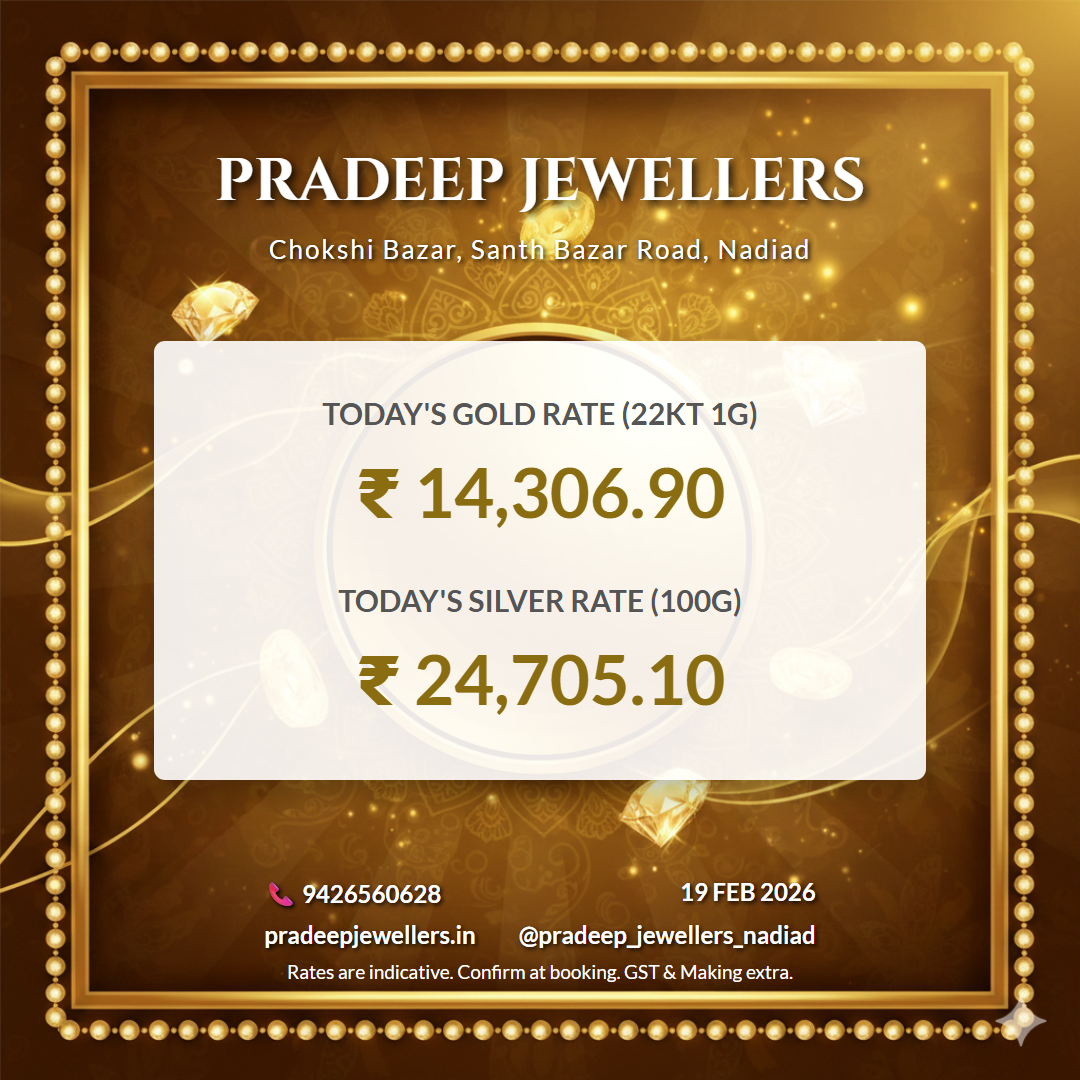
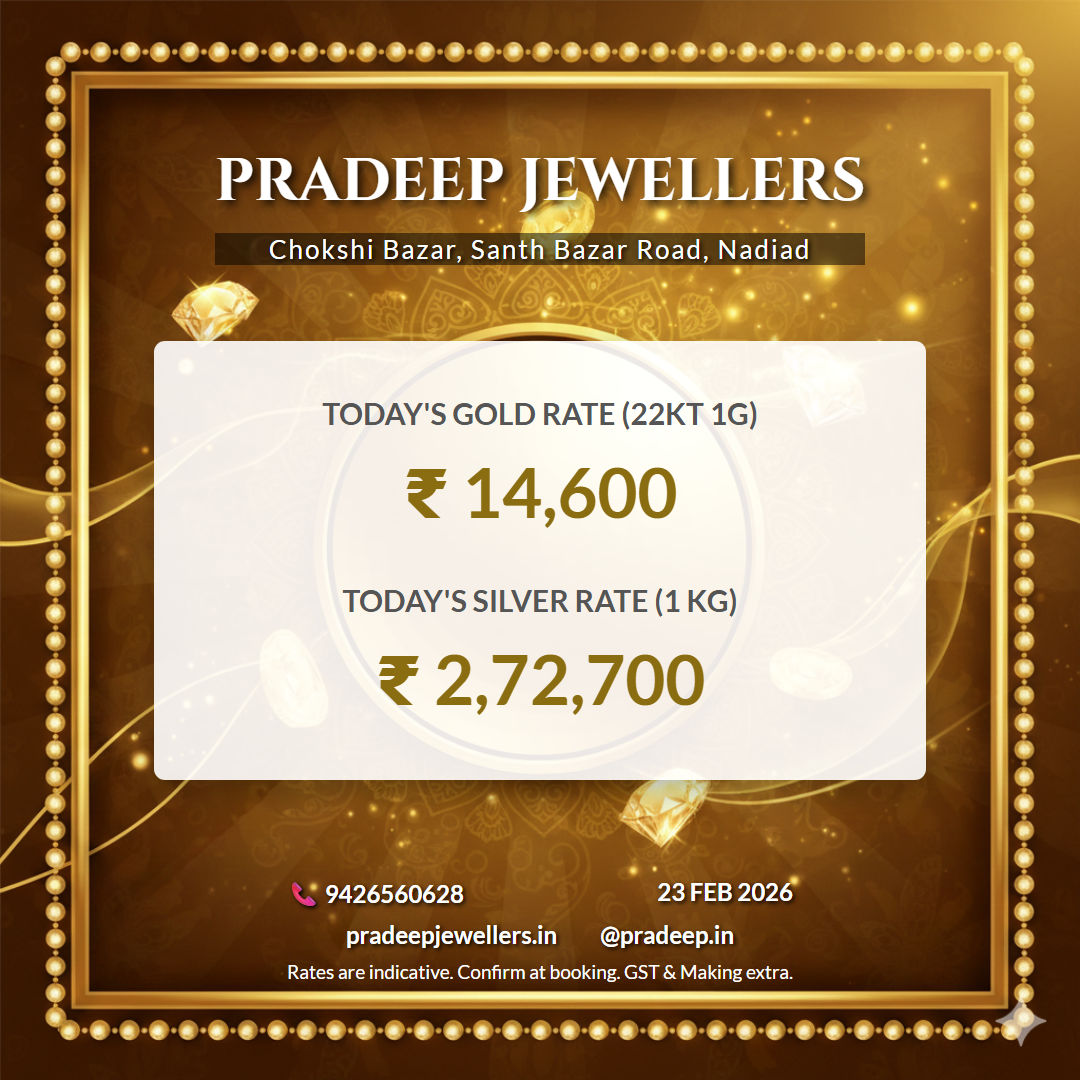
image generated succesfully

diff --git a/gold_rate_card.html b/gold_rate_card.html
@@ -117,22 +117,22 @@
     <div class="overlay-box">
         <div class="price-row">
             <div class="label">Today's Gold Rate (22KT 1g)</div>
-            <div class="price">₹ 14,306.90</div>
+            <div class="price">₹ 14,600</div>
         </div>
         <div class="price-row">
-            <div class="label">Today's Silver Rate (100g)</div>
-            <div class="price">₹ 24,705.10</div>
+            <div class="label">Today's Silver Rate (1 Kg)</div>
+            <div class="price">₹ 2,72,700</div>
         </div>
     </div>
 
     <div class="bottom-container">
         <div class="footer">
             <span>📞 9426560628</span>
-            <span>19 FEB 2026</span>
+            <span>23 FEB 2026</span>
         </div>
         <div class="footer" style="margin-top:11px; justify-content: center; gap: 43px;">
             <span>pradeepjewellers.in</span>
-            <span>@pradeep_jewellers_nadiad</span>
+            <span>@pradeepjewellers.in</span>
         </div>
         <div class="disclaimer">
             Rates are indicative. Confirm at booking. GST & Making extra.

diff --git a/pradeep_jewellers_rates.py b/pradeep_jewellers_rates.py
@@ -49,22 +49,53 @@ def scrape_rates():
     return gold_22k_10g, silver_retail_999_1kg
 
 
-def update_rate_card(gold_1g: float, silver_100g: float, script_dir: Path) -> None:
+def format_indian_number(n: float, decimals: int = 0) -> str:
+    """Format in Indian style: 143506 -> 1,43,506; 14350.60 -> 14,350.60"""
+    num = round(n, decimals)
+    if decimals > 0:
+        int_part = int(num)
+        dec_val = round(num - int_part, decimals)
+        s = str(int_part)
+        dec_str = f".{int(dec_val * 10**decimals):0{decimals}d}"
+    else:
+        s = str(int(num))
+        dec_str = ""
+    if len(s) <= 3:
+        return s + dec_str
+    last3 = s[-3:]
+    rest = s[:-3]
+    if len(rest) <= 2:
+        result = rest + "," + last3
+    elif len(rest) == 3:
+        result = rest[0] + "," + rest[1:3] + "," + last3
+    elif len(rest) == 4:
+        result = rest[0] + "," + rest[1:3] + "," + last3
+    else:
+        first_len = 1 if len(rest) % 2 == 1 else 2
+        result = rest[:first_len]
+        for i in range(first_len, len(rest), 2):
+            result += "," + rest[i : i + 2]
+        result += "," + last3
+    return result + dec_str
+
+
+def update_rate_card(gold_1g: float, silver_1kg: float, script_dir: Path) -> None:
     """Update gold_rate_card.html with current rates and date."""
     html_path = script_dir / "gold_rate_card.html"
     if not html_path.exists():
         return
     html = html_path.read_text(encoding="utf-8")
     date_str = datetime.now().strftime("%d %b %Y").upper()
-    gold_str = f"₹ {gold_1g:,.2f}"
-    silver_str = f"₹ {silver_100g:,.2f}"
+    gold_str = f"₹ {format_indian_number(gold_1g, 0)}"
+    silver_str = f"₹ {format_indian_number(silver_1kg, 0)}"
+    # Match any number format (with/without decimals, Indian or Western commas)
     html = re.sub(
-        r"(Today's Gold Rate \(22KT 1g\)</div>\s*<div class=\"price\">)₹ [\d,]+\.\d+",
+        r'(Today\'s Gold Rate \(22KT 1g\)</div>\s*<div class="price">)₹ [\d,.]+',
         r"\1" + gold_str,
         html,
     )
     html = re.sub(
-        r"(Today's Silver Rate \(100g\)</div>\s*<div class=\"price\">)₹ [\d,]+\.\d+",
+        r'(Today\'s Silver Rate \(1 Kg\)</div>\s*<div class="price">)₹ [\d,.]+',
         r"\1" + silver_str,
         html,
     )
@@ -77,12 +108,12 @@ def main():
     if gold_22k_10g is None or silver_1kg is None:
         print("Error: Could not extract rates.")
         return
-    gold_1g = gold_22k_10g / 10
-    silver_100g = silver_1kg / 10
+    gold_1g = round(gold_22k_10g / 10 / 100) * 100
+    silver_1kg = round(silver_1kg / 100) * 100
     script_dir = Path(__file__).resolve().parent
-    update_rate_card(gold_1g, silver_100g, script_dir)
+    update_rate_card(gold_1g, silver_1kg, script_dir)
     print(f"22KT GOLD (1g): Rs. {gold_1g:,.2f}")
-    print(f"SILVER (100g): Rs. {silver_100g:,.2f}")
+    print(f"SILVER (1kg): Rs. {silver_1kg:,.2f}")
 
 
 if __name__ == "__main__":

diff --git a/generate_rate_image.py b/generate_rate_image.py
@@ -26,9 +26,9 @@ def generate_image(output_path: Optional[Path] = None) -> bool:
         print("Error: Could not extract rates.")
         return False
 
-    gold_1g = gold_22k_10g / 10
-    silver_100g = silver_1kg / 10
-    update_rate_card(gold_1g, silver_100g, script_dir)
+    gold_1g = round(gold_22k_10g / 10 / 100) * 100
+    silver_1kg = round(silver_1kg  / 100) * 100
+    update_rate_card(gold_1g, silver_1kg, script_dir)
 
     try:
         from playwright.sync_api import sync_playwright

diff --git a/README.md b/README.md
@@ -1,16 +1,6 @@
 # Pradeep Jewellers – Gold Rate Card
 
-Fetches live gold/silver rates from All India Bullion and generates a daily rate card image.
-
-## Image URL (GitHub raw)
-
-After the workflow runs and commits the image, you can use:
-
-```
-https://raw.githubusercontent.com/YOUR_USERNAME/YOUR_REPO/main/gold_rate_card.png
-```
-
-Replace `YOUR_USERNAME` and `YOUR_REPO` with your GitHub username and repository name. The image is updated every weekday at 11:00 AM IST (Monday–Saturday).
+Fetches live gold/silver rates and generates a daily rate card image.
 
 ## Local setup
 
@@ -18,4 +8,20 @@ Replace `YOUR_USERNAME` and `YOUR_REPO` with your GitHub username and repository
 pip install -r requirements.txt
 playwright install chromium
 python generate_rate_image.py
+```
+
+The image is saved as `gold_rate_card.png`.
+
+## Schedule daily (Windows Task Scheduler)
+
+1. Create Basic Task → Daily at 11:00 AM
+2. Action: Start a program → `python` with argument path to `generate_rate_image.py`
+3. Start in: your project folder
+
+## Image URL (GitHub)
+
+If you push to GitHub and use the workflow, the image is available at:
+
+```
+https://raw.githubusercontent.com/YOUR_USERNAME/YOUR_REPO/main/gold_rate_card.png
 ```
